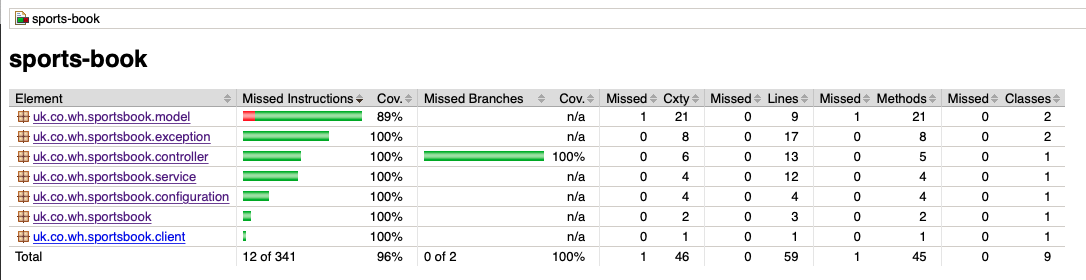
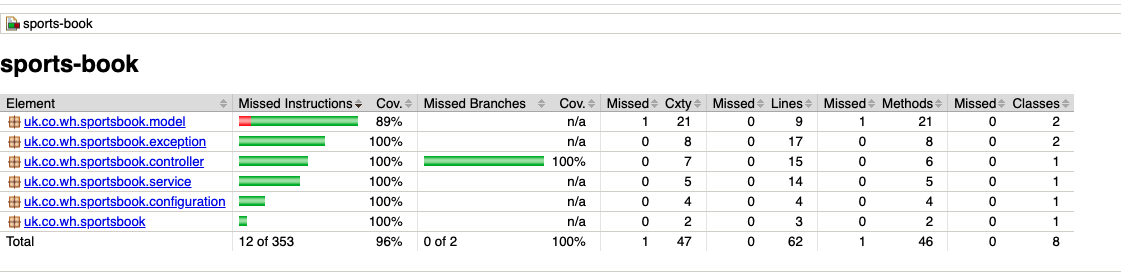
Added new endpoint, implementation and unit tests for MQ integration to push score updates to the client’s browser.

Changed region(s): [[0.0, 0.3177, 1.0, 0.9819], [0.0, 0.0, 1.0, 0.1444], [0.0, 0.1733, 0.1519, 0.2888]]

diff --git a/README.md b/README.md
@@ -85,11 +85,24 @@ routingkey: browserWebHookRouteKey
 	       "scoreTeamB": 1
         }
      ```
+
+  > **Post Mapping** http://localhost:8080/sportbook/push - Push football match score to client's browser 
+  Request Body
+     ```
+        {           
+           "teamA": "ManU",	
+           "teamB": "Chelsea",	
+           "scoreTeamA": 0,	
+	       "scoreTeamB": 1
+        }
+     ```
+  
   > **Get Mapping** http://localhost:8080/sportbook/id/{id}  - Find score of a Football Match by id
 
      ```
         id= Match id
      ```
+
 ## Swagger Endpoints
 > **Swagger URL:** http://localhost:8080/swagger-ui/index.html#
 
